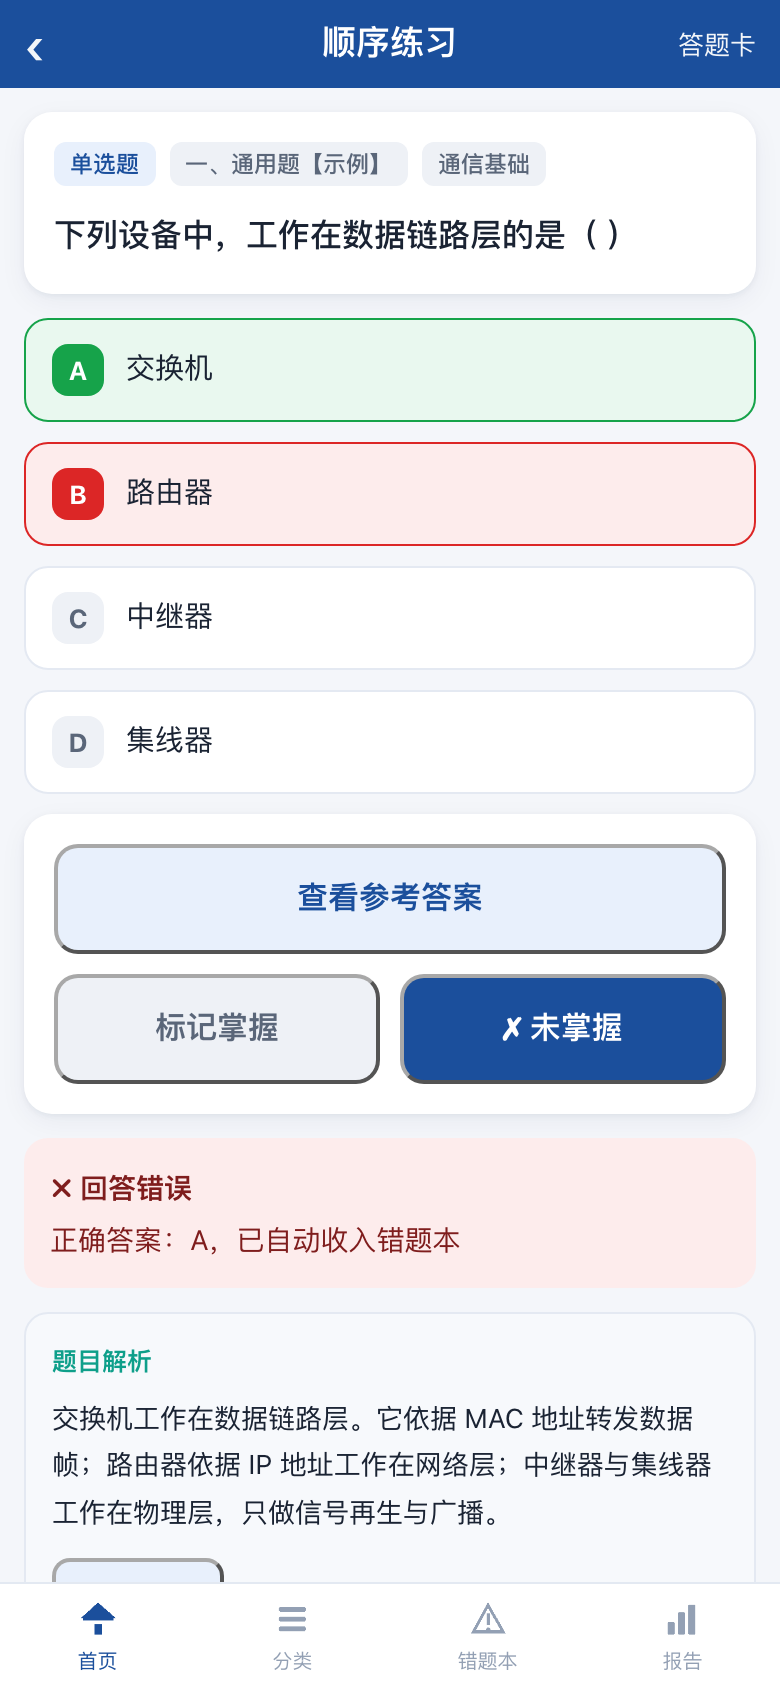
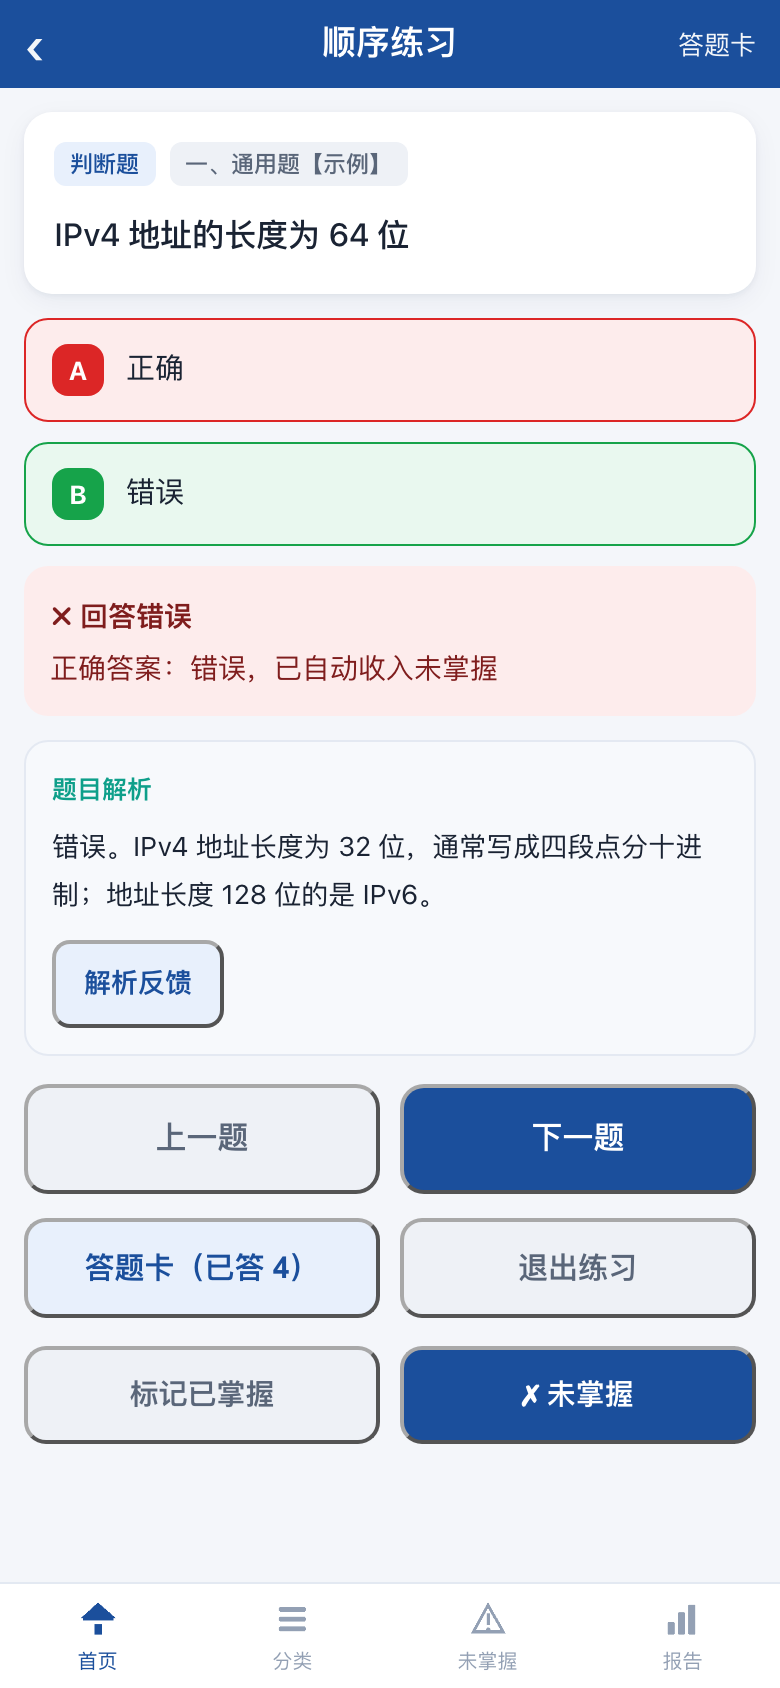
feat: 掌握度标记（已掌握 / 未掌握），错题本改名未掌握
练习页新增「标记已掌握 / 标记未掌握」按钮，位置在「答题卡」那一行的下面；主观题自评与客观题共用同一套状态，考试模式不给标记。

抽题加权：未掌握 x4 / 未作答 x2 / 已掌握 x1，只在随机练习生效（考试保持公平随机，顺序练习按原序）。实测未掌握与已掌握的出现比为 4.01。

数据层新增 S.mastered，沿用 S.wrong 承载「未掌握」，旧存档有兜底、不做迁移；markUnmastered 不虚增答错次数。

改名一致性：tabBar / 页面标题 / 首页统计与模式卡 / 报告页 / 结果页 / SETUP_MODE_NAME / scopeLabel。清零入口：清空未掌握列表、清除已掌握标记。

顺手修截图脚本 wx:else 从不判 prevIfFalse 导致两分支全渲染的 bug（此前 03-practice 截图多出一整块主观题按钮），6 张截图全部重生成。README 新增「掌握度与抽题」小节。

diff --git a/miniprogram/utils/store.js b/miniprogram/utils/store.js
@@ -7,7 +7,8 @@ function defaultState() {
   return {
     v: 1,
     qs: {},         // qid -> {r,w,last,at}
-    wrong: {},      // qid -> {n,at,last}
+    wrong: {},      // qid -> {n,at,last}  未掌握（错题本）
+    mastered: {},   // qid -> ts           已掌握（抽题降权）
     hidden: {},     // chapter -> true
     practice: null, // 进行中的练习会话
     history: [],
@@ -39,6 +40,7 @@ function init() {
       var d = typeof raw === 'string' ? JSON.parse(raw) : raw;
       if (d && d.v === 1) Object.assign(S, d);
     }
+    if (!S.mastered) S.mastered = {};   // 旧存档（无 mastered 字段）兜底
   } catch (e) { console.warn('状态读取失败', e); }
 }
 
@@ -68,14 +70,69 @@ function addWrong(qid) {
 function removeWrong(qid) { delete S.wrong[qid]; save(); }
 function wrongCount() { return Object.keys(S.wrong).length; }
 
+/* ---------- 掌握度标记 ----------
+ * 「未掌握」沿用 wrong 表（错题本），手动点「未掌握」即入库；
+ * 「已掌握」记 mastered 表，抽题时权重降低。答错自动入库，答对自动出库。
+ */
+function markUnmastered(qid) {
+  // 手动标记不累加「答错次数」（n 仅在真正答错时 +1），已有记录保留原 n
+  var w = S.wrong[qid];
+  if (w) w.last = Date.now();
+  else S.wrong[qid] = { n: 0, at: Date.now(), last: Date.now() };
+  if (S.mastered[qid]) delete S.mastered[qid];
+  save();
+}
+function markMastered(qid) {
+  S.mastered[qid] = Date.now();
+  if (S.wrong[qid]) delete S.wrong[qid];
+  save();
+}
+function isMastered(qid) { return !!S.mastered[qid]; }
+function masteredCount() { return Object.keys(S.mastered).length; }
+
+/* 抽题权重：未掌握 4 / 未作答 2 / 已掌握 1 */
+function weightOf(qid) {
+  if (S.wrong[qid]) return 4;
+  if (S.mastered[qid]) return 1;
+  return 2;
+}
+
+/* 加权不放回抽样：按权重把 id 重复投进池子再洗牌去重，权重高的更靠前 */
+function weightedPick(ids, n) {
+  var bag = [];
+  for (var i = 0; i < ids.length; i++) {
+    var w = weightOf(ids[i]);
+    for (var k = 0; k < w; k++) bag.push(ids[i]);
+  }
+  var sh = logic.shuffle(bag);
+  var seen = {}, out = [];
+  for (var j = 0; j < sh.length && out.length < n; j++) {
+    if (seen[sh[j]]) continue;
+    seen[sh[j]] = 1;
+    out.push(sh[j]);
+  }
+  // 池子被去重后不足 n（理论上不会，权重≥1 保证 bag ≥ ids），兜底补齐
+  if (out.length < n) {
+    for (var m = 0; m < ids.length && out.length < n; m++) {
+      if (!seen[ids[m]]) { seen[ids[m]] = 1; out.push(ids[m]); }
+    }
+  }
+  return out;
+}
+
 /* ---------- 练习会话 ---------- */
 function startPractice(mode, pool) {
   var ids = pool.slice();
-  if (mode === 'rand' || mode === 'exam') ids = logic.shuffle(ids);
-  var limit = (mode === 'rand' || mode === 'exam') ? Math.min(ui.setupCount, ids.length) : ids.length;
-  ids = ids.slice(0, limit);
+  if (mode === 'rand') {
+    // 随机练习按掌握度加权抽题：已掌握的出现更少，未掌握/错题出现更多
+    ids = weightedPick(ids, Math.min(ui.setupCount, ids.length));
+  } else if (mode === 'exam') {
+    ids = logic.shuffle(ids).slice(0, Math.min(ui.setupCount, ids.length));
+  } else {
+    ids = ids.slice(0, ids.length);
+  }
 
-  var scopeLabel = mode === 'wrong' ? '错题本'
+  var scopeLabel = mode === 'wrong' ? '未掌握题'
     : ui.setupScope === 'all' ? '全部题库'
     : ui.setupScope === 'general' ? '通用题'
     : '自选章节';
@@ -212,6 +269,7 @@ function onExamTimeout() {
 module.exports = {
   S, ui, init, save,
   recordAnswer, addWrong, removeWrong, wrongCount,
+  markUnmastered, markMastered, isMastered, masteredCount, weightedPick,
   startPractice, finishPractice, finalizePracticeResults,
   gradeExam, submitSelfReview, finishExam, onExamTimeout
 };

diff --git a/miniprogram/pages/wrong/wrong.js b/miniprogram/pages/wrong/wrong.js
@@ -4,6 +4,7 @@ const logic = require('../../utils/logic.js');
 Page({
   data: {
     total: 0,
+    masteredN: 0,
     list: [],
     detail: null
   },
@@ -23,13 +24,13 @@ Page({
         wrongN: w.n
       };
     });
-    this.setData({ total: ids.length, list: list, detail: null });
+    this.setData({ total: ids.length, masteredN: store.masteredCount(), list: list, detail: null });
   },
 
   onRedo(e) {
     const mode = e.currentTarget.dataset.mode;
     const ids = Object.keys(store.S.wrong);
-    if (!ids.length) { wx.showToast({ title: '错题本为空', icon: 'none' }); return; }
+    if (!ids.length) { wx.showToast({ title: '未掌握列表为空', icon: 'none' }); return; }
     store.startPractice('wrong', mode === 'rand' ? logic.shuffle(ids) : ids);
     wx.navigateTo({ url: '/pages/practice/practice' });
   },
@@ -37,7 +38,7 @@ Page({
   onClear() {
     wx.showModal({
       title: '提示',
-      content: '确定清空错题本？该操作不可恢复。',
+      content: '确定清空未掌握列表？该操作不可恢复。',
       confirmText: '清空',
       confirmColor: '#DC2626',
       success: (res) => {
@@ -45,6 +46,23 @@ Page({
           store.S.wrong = {};
           store.save();
           wx.showToast({ title: '已清空', icon: 'none' });
+          this.onShow();
+        }
+      }
+    });
+  },
+
+  onClearMastered() {
+    wx.showModal({
+      title: '提示',
+      content: '清除全部「已掌握」标记？这些题之后会恢复正常出现概率。',
+      confirmText: '清除',
+      confirmColor: '#DC2626',
+      success: (res) => {
+        if (res.confirm) {
+          store.S.mastered = {};
+          store.save();
+          wx.showToast({ title: '已清除', icon: 'none' });
           this.onShow();
         }
       }
@@ -75,10 +93,11 @@ Page({
     });
   },
 
+  /* 从未掌握列表移除 = 视为已掌握（抽题降权），与练习页的「已掌握」同一口径 */
   onRemove(e) {
     const id = e.currentTarget.dataset.id;
-    store.removeWrong(id);
-    wx.showToast({ title: '已移出', icon: 'none' });
+    store.markMastered(id);
+    wx.showToast({ title: '已标记掌握', icon: 'none' });
     this.onShow();
   },
 
@@ -96,6 +115,6 @@ Page({
   noop() {},
 
   onShareAppMessage() {
-    return { title: '刷题宝 · 错题本', path: '/pages/wrong/wrong' };
+    return { title: '刷题宝 · 未掌握', path: '/pages/wrong/wrong' };
   }
 });

diff --git a/miniprogram/pages/practice/practice.js b/miniprogram/pages/practice/practice.js
@@ -19,6 +19,10 @@ Page({
     title: '',
     idx: 0,
     total: 0,
+    // 掌握度标记（非考试模式、已判分后可用）
+    canMark: false,
+    mkM: false,
+    mkU: false,
     // 考试
     examLeft: '',
     examUrgent: false,
@@ -92,10 +96,14 @@ Page({
         : q.type === 'single' ? q.answer
         : q.answer.split('').join('、');
       if (fb === 1) { fbTitle = '✓ 回答正确'; fbText = '正确答案：' + ansText; }
-      else { fbTitle = '✗ 回答错误'; fbText = '正确答案：' + ansText + '，已自动收入错题本'; }
+      else { fbTitle = '✗ 回答错误'; fbText = '正确答案：' + ansText + '，已自动收入未掌握'; }
     }
 
     const ac = this.buildAcard();
+
+    // 掌握度标记：仅非考试模式、判分后才允许（主观题由自评按钮标记）
+    const mkM = store.isMastered(q.id);
+    const mkU = !!(store.S.wrong[q.id]);
 
     this.setData({
       qid: q.id,
@@ -122,6 +130,10 @@ Page({
       idx: p.idx + 1,
       total: p.ids.length,
       selfReview: null,
+      // 判分后（或关闭反馈时答完）都可标记；主观题走自评按钮，考试模式不给标记
+      canMark: !isExam && !q.isSubj && (fb !== null || (!feedbackOn && a.sel.length > 0)),
+      mkM: mkM,
+      mkU: mkU,
       acardCells: ac.cells,
       acardAnswered: ac.answered,
       acardFlagged: ac.flagged
@@ -183,8 +195,25 @@ Page({
     const v = Number(e.currentTarget.dataset.v);
     p.fb[q.id] = v;
     store.recordAnswer(q.id, v === 1);
-    if (v === 1) store.removeWrong(q.id); else store.addWrong(q.id);
+    if (v === 1) store.markMastered(q.id); else store.markUnmastered(q.id);
     store.save();
+    this.renderQuestion();
+  },
+
+  /* 掌握度标记：已掌握 → 降权并移出未掌握；未掌握 → 视同错题入库 */
+  onMark(e) {
+    const p = store.S.practice;
+    if (!p) return;
+    const id = e.currentTarget.dataset.id || this.data.qid;
+    const v = Number(e.currentTarget.dataset.v);
+    if (!id) return;
+    if (v === 1) {
+      store.markMastered(id);
+      wx.showToast({ title: '已标记掌握，出现概率降低', icon: 'none' });
+    } else {
+      store.markUnmastered(id);
+      wx.showToast({ title: '已收入未掌握', icon: 'none' });
+    }
     this.renderQuestion();
   },
 

diff --git a/miniprogram/pages/report/report.js b/miniprogram/pages/report/report.js
@@ -8,6 +8,7 @@ Page({
     days: 0,
     streakN: 0,
     wrongN: 0,
+    masteredN: 0,
     examN: 0,
     trend: [],
     trendLabels: [],
@@ -80,6 +81,7 @@ Page({
       days: Object.keys(S.days).length,
       streakN: S.streak.n,
       wrongN: store.wrongCount(),
+      masteredN: store.masteredCount(),
       examN: S.history.length,
       trend: days,
       trendLabels: days.map((x, i) => (i % 3 === 0 || i === 13) ? x.label : ''),
@@ -116,20 +118,30 @@ Page({
 
   onClearWrong() {
     wx.showModal({
-      title: '提示', content: '确定清空错题本？', confirmText: '清空', confirmColor: '#DC2626',
+      title: '提示', content: '确定清空未掌握列表？', confirmText: '清空', confirmColor: '#DC2626',
       success: (res) => {
         if (res.confirm) { store.S.wrong = {}; store.save(); wx.showToast({ title: '已清空', icon: 'none' }); this.onShow(); }
       }
     });
   },
 
+  onClearMastered() {
+    wx.showModal({
+      title: '提示', content: '清除全部「已掌握」标记？这些题之后恢复正常出现概率。',
+      confirmText: '清除', confirmColor: '#DC2626',
+      success: (res) => {
+        if (res.confirm) { store.S.mastered = {}; store.save(); wx.showToast({ title: '已清除', icon: 'none' }); this.onShow(); }
+      }
+    });
+  },
+
   onResetAll() {
     wx.showModal({
-      title: '危险操作', content: '将清空全部答题记录、错题本、考试记录与设置，且不可恢复。确定？',
+      title: '危险操作', content: '将清空全部答题记录、未掌握列表、已掌握标记、考试记录与设置，且不可恢复。确定？',
       confirmText: '全部重置', confirmColor: '#DC2626',
       success: (res) => {
         if (res.confirm) {
-          const dflt = { v: 1, qs: {}, wrong: {}, hidden: {}, practice: null, history: [], days: {}, streak: { last: '', n: 0 }, settings: { feedback: true } };
+          const dflt = { v: 1, qs: {}, wrong: {}, mastered: {}, hidden: {}, practice: null, history: [], days: {}, streak: { last: '', n: 0 }, settings: { feedback: true } };
           Object.keys(store.S).forEach(k => { delete store.S[k]; });
           Object.assign(store.S, dflt);
           store.save();

diff --git a/miniprogram/utils/logic.js b/miniprogram/utils/logic.js
@@ -99,7 +99,7 @@ function fmtDateTime(ts) {
 }
 
 /* 页面设置项（跨页共享，存 store.ui） */
-const SETUP_MODE_NAME = { seq: '顺序练习', rand: '随机练习', exam: '模拟考试', wrong: '错题复习' };
+const SETUP_MODE_NAME = { seq: '顺序练习', rand: '随机练习', exam: '模拟考试', wrong: '未掌握重练' };
 
 module.exports = {
   QLIST, QMAP, TREE, TYPE_LABEL, TYPE_ORDER, SETUP_MODE_NAME,

diff --git a/README.md b/README.md
@@ -2,17 +2,33 @@
 
 把题库文档（**PDF / Word / 文本**）变成可以直接发布的**微信小程序**刷题应用 —— 全程在 WorkBuddy 里完成，不用写代码、不用装环境。
 
-功能：顺序 / 随机练习、模拟考试、错题本、答题卡、学习报告、主观题自评、题目解析、解析反馈（云端汇总）。
+功能：顺序 / 随机练习、模拟考试、未掌握清单、已掌握降权、答题卡、学习报告、主观题自评、题目解析、解析反馈（云端汇总）。
 
 > **本仓库不含真实题库与解析**，只带 12 道示例题（覆盖全部 7 种题型）用于跑通流程。
 
 ## 界面
 
-| 首页 | 题库分类 | 练习（答错即时反馈 + 解析） |
+| 首页 | 题库分类 | 练习（答错即时反馈 + 掌握度标记 + 解析） |
 | --- | --- | --- |
 | ![首页](docs/screenshots/01-home.png) | ![题库分类](docs/screenshots/02-bank.png) | ![练习](docs/screenshots/03-practice.png) |
-| **错题本** | **学习报告** | **答题卡** |
-| ![错题本](docs/screenshots/04-wrong.png) | ![学习报告](docs/screenshots/05-report.png) | ![答题卡](docs/screenshots/06-acard.png) |
+| **未掌握** | **学习报告** | **答题卡** |
+| ![未掌握](docs/screenshots/04-wrong.png) | ![学习报告](docs/screenshots/05-report.png) | ![答题卡](docs/screenshots/06-acard.png) |
+
+---
+
+## 掌握度与抽题
+
+练习模式答完一题后，页面最底部（「答题卡」那一行的下面）给两个按钮：**标记已掌握** / **标记未掌握**。它们决定这道题以后多久再遇到你。
+
+| 状态 | 怎么进 | 之后的表现 |
+| --- | --- | --- |
+| **未掌握** | 答错自动入库；或手动点「标记未掌握」 | 随机练习抽题权重 **×4**（最容易再遇到）；出现在「未掌握」页 |
+| 普通 | 默认 | 权重 **×2** |
+| **已掌握** | 手动点「标记已掌握」；或在「未掌握」页点「标记已掌握」 | 权重 **×1**（出现概率约为普通的 1/2、未掌握的 1/4） |
+
+- **随机练习**按上面的权重加权抽题；**模拟考试不加权**（保持公平抽样，成绩才有可比性）；顺序练习按题库原序，不涉及概率。
+- 主观题自评的「已掌握 / 未掌握」按钮与客观题是同一套状态。
+- 已掌握标记可整体清除：报告页或「未掌握」页的「清除已掌握标记」。
 
 ---
 
@@ -154,7 +170,7 @@ build/explanations/ch2_analysis.json   # 第二章
 }
 ```
 
-文件名必须是 `ch<数字>_analysis.json`。解析注入后 App 里出现在：练习模式的答题反馈区、主观题「查看参考答案」区、自评页、错题本「查看解析」弹层。
+文件名必须是 `ch<数字>_analysis.json`。解析注入后 App 里出现在：练习模式的答题反馈区、主观题「查看参考答案」区、自评页、未掌握页「查看解析」弹层。
 **考试模式与「关闭即时反馈」时不显示解析**，避免泄题。
 
 ### 写作要求（直接影响 App 里的可读性）
@@ -211,7 +227,7 @@ module.exports = {
 };
 ```
 
-`config.js` 已被 `.gitignore` 排除（属于你自己的凭据，不要提交）。**不配也能跑**：反馈入口会提示「云服务未配置」，刷题、错题本、报告等功能完全不受影响。
+`config.js` 已被 `.gitignore` 排除（属于你自己的凭据，不要提交）。**不配也能跑**：反馈入口会提示「云服务未配置」，刷题、未掌握清单、报告等功能完全不受影响。
 
 ---
 
@@ -221,9 +237,9 @@ module.exports = {
 .
 ├─ miniprogram/                    微信小程序
 │  ├─ app.js / app.json / app.wxss
-│  ├─ pages/                       首页 · 分类 · 错题本 · 报告 · 设置 · 练习 · 结果
+│  ├─ pages/                       首页 · 分类 · 未掌握 · 报告 · 设置 · 练习 · 结果
 │  ├─ utils/logic.js               纯逻辑：评分 / 题池 / 结构树（无 wx 依赖，可 Node 单测）
-│  ├─ utils/store.js               本地进度与错题存储
+│  ├─ utils/store.js               本地进度、未掌握清单与已掌握标记存储
 │  ├─ utils/qbank.js               ← 构建产物（不入库，由技能生成）
 │  └─ pkg-feedback/                解析反馈分包（提交表单 + 汇总列表 + 云 SDK）
 ├─ build/
